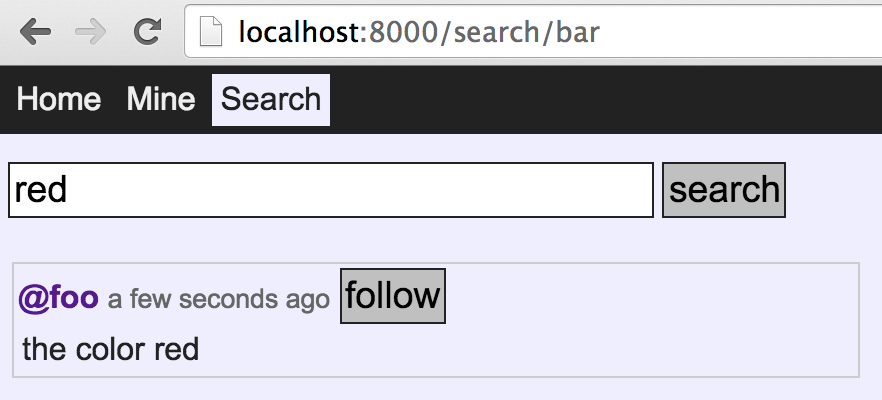
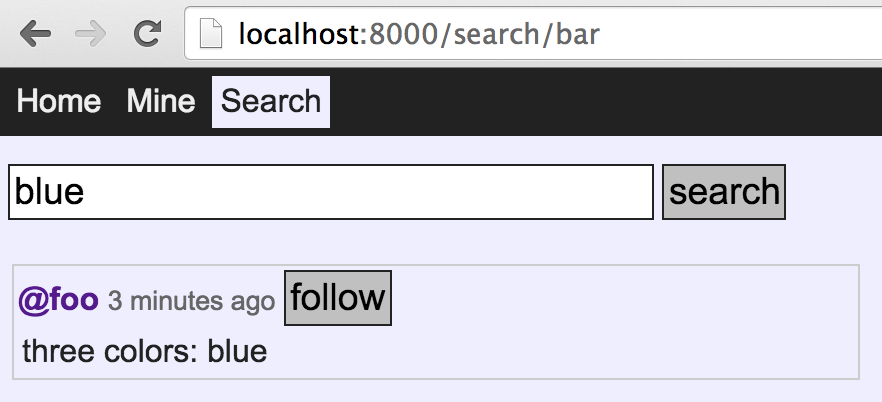
r12

diff --git a/README.md b/README.md
@@ -166,7 +166,7 @@ At first there are no entries, so go ahead and post an entry, say:
 
 Click the _post_ button or hit return. You should see the new entry.
 
-<img src="https://github.com/senecajs/ramanujan/blob/master/img/rm02" width="440">
+<img src="https://github.com/senecajs/ramanujan/blob/master/img/rm02.png" width="440">
 
 Post another entry, say:
 
@@ -184,18 +184,18 @@ This shows only the entries for user _foo_, omitting entries for followers.
 
 You can use this page to verify the entry list for a given user.
 
-<img src="https://github.com/senecajs/ramanujan/blob/master/img/rm03" width="440">
+<img src="https://github.com/senecajs/ramanujan/blob/master/img/rm03.png" width="440">
 
 
 #### Step 3: Load search page of user _bar_, and follow user _foo_
 
 Open `http://localhost:8000/search/bar`.
 
-You are now acting as user _bar_. Use the text _red_ as a search query:
+You are now acting as user _bar_. Use the text _blue_ as a search query:
 
 Click on the _follow_ button. Now user _bar_ is following user _foo_.
 
-<img src="https://github.com/senecajs/ramanujan/blob/master/img/rm04" width="440">
+<img src="https://github.com/senecajs/ramanujan/blob/master/img/rm04.png" width="440">
 
 
 #### Step 4: Review timeline for user _bar_
@@ -204,7 +204,7 @@ Open `http://localhost:8000/bar` (Or click on the _Home_ navigation tab).
 
 You should see the entries from user _foo_, as user _bar_ is now a follower.
 
-<img src="https://github.com/senecajs/ramanujan/blob/master/img/rm05" width="440">
+<img src="https://github.com/senecajs/ramanujan/blob/master/img/rm05.png" width="440">
 
 
 #### Step 5: Post microblogs entries for user _bar_
@@ -216,7 +216,7 @@ Enter and post the text:
 The timeline for user _bar_ now includes entries from both users _foo_
 and _bar_.
 
-<img src="https://github.com/senecajs/ramanujan/blob/master/img/rm06" width="440">
+<img src="https://github.com/senecajs/ramanujan/blob/master/img/rm06.png" width="440">
 
 
 #### Step 5: Post microblogs for user _foo_
@@ -229,7 +229,7 @@ Post a new entry:
 
 You should see entries only for user _foo_, as _foo_ does **not** follow _bar_.
 
-<img src="https://github.com/senecajs/ramanujan/blob/master/img/rm07" width="440">
+<img src="https://github.com/senecajs/ramanujan/blob/master/img/rm07.png" width="440">
 
 
 #### Step 6: Load microblog timeline of user _bar_
@@ -238,7 +238,7 @@ Go back to user _bar_. Open `http://localhost:8000/bar`.
 
 You should see an updated list of entries, included all the entries for user _foo_.
 
-<img src="https://github.com/senecajs/ramanujan/blob/master/img/rm08" width="440">
+<img src="https://github.com/senecajs/ramanujan/blob/master/img/rm08.png" width="440">
 
 
 ### Starting and stopping services
